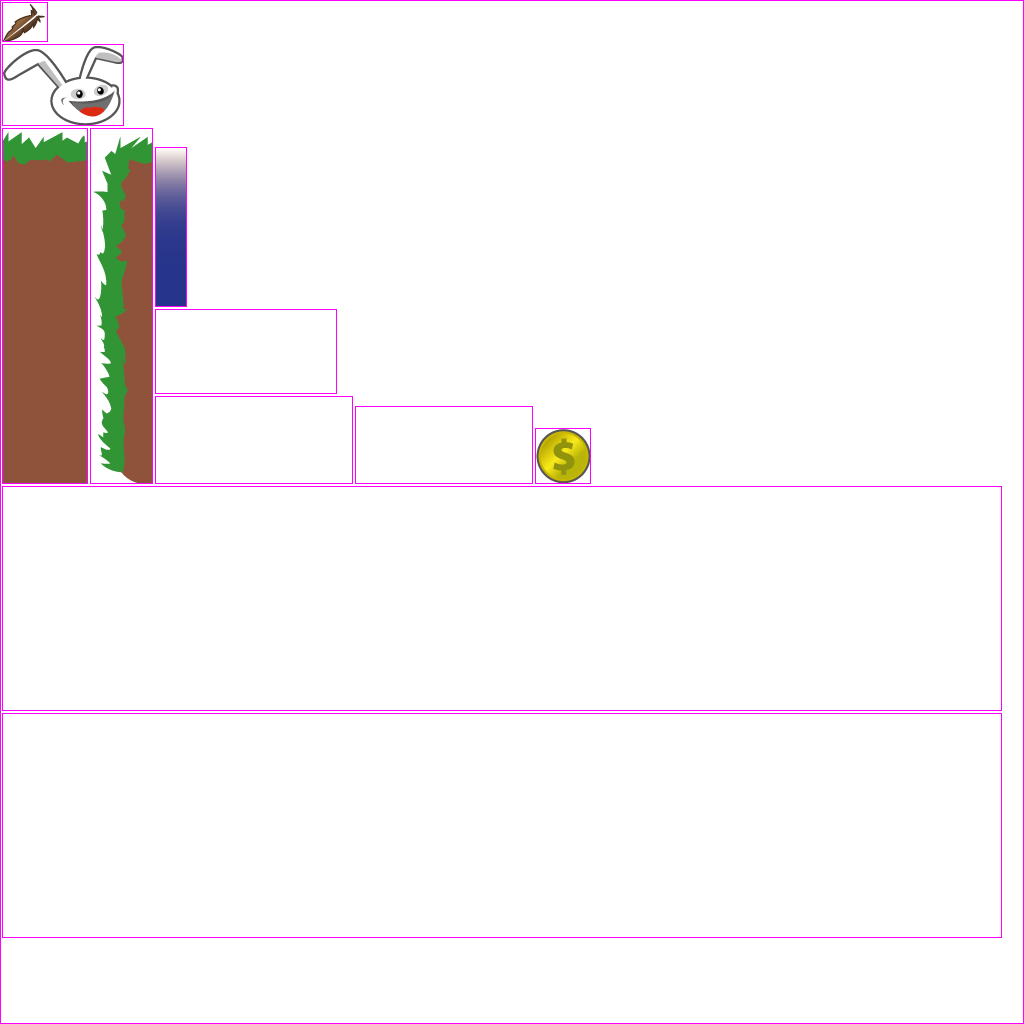
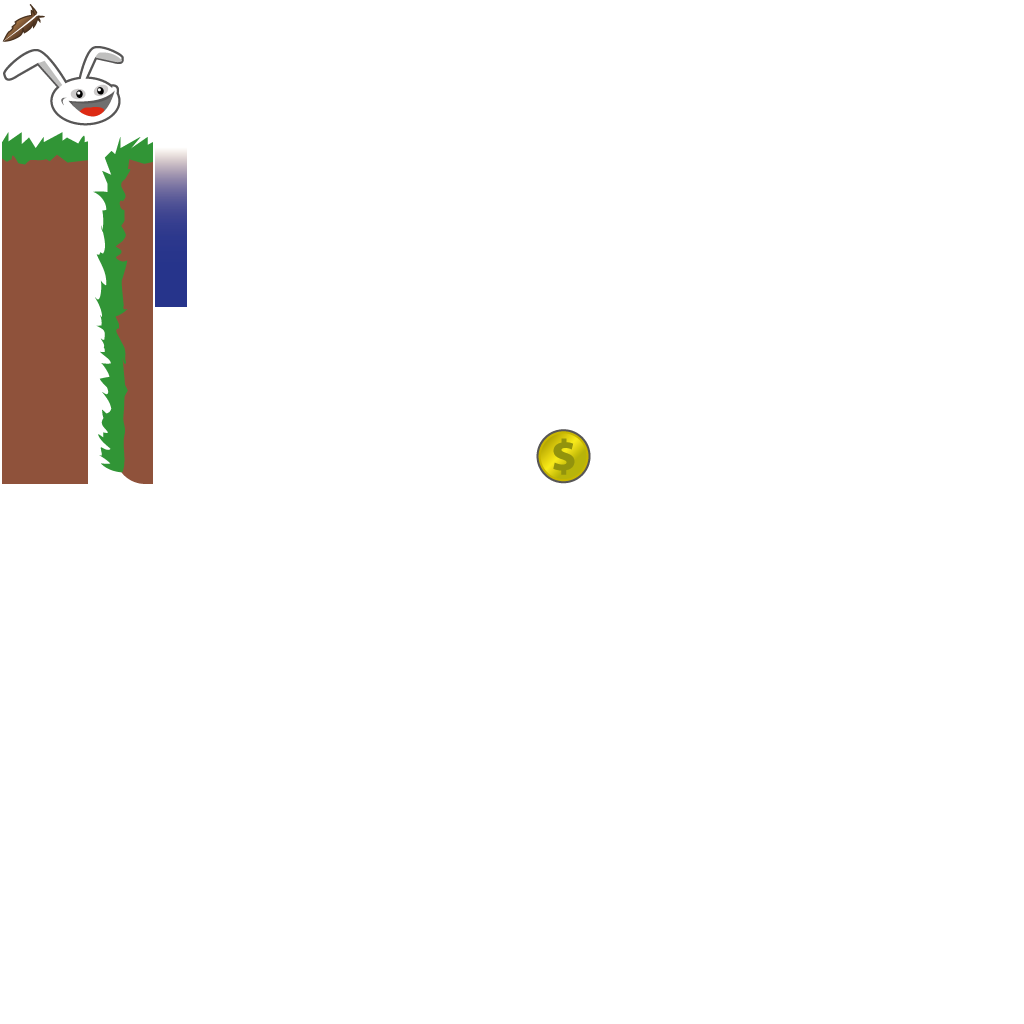
284 world renderer code. fixed fps font. disabled outlines

Changed region(s): [[0.0, 0.0, 0.0312, 0.0625], [0.0, 0.6875, 0.0312, 0.7188], [0.0, 0.4688, 0.0312, 0.5]]

diff --git a/core/src/com/packtpub/libgdx/canyonbunny/game/WorldRenderer.java b/core/src/com/packtpub/libgdx/canyonbunny/game/WorldRenderer.java
@@ -122,8 +122,7 @@ public class WorldRenderer implements Disposable
 				100, 100, 
 				0.35f, -0.35f, 
 				0);
-		Assets.instance.fonts.defaultBig.draw(batch, "", 
-				(int)worldController.scoreVisual, 
+		Assets.instance.fonts.defaultBig.draw(batch, "" + (int)worldController.scoreVisual, 
 				x + 75, y + 37);
 	}
 	
@@ -171,28 +170,22 @@ public class WorldRenderer implements Disposable
 	private void renderGuiFpsCounter (SpriteBatch batch)
 	{
 		float x = cameraGUI.viewportWidth - 55;
-		float y = cameraGUI.viewportHeight -15;
+		float y = cameraGUI.viewportHeight - 15;
 		int fps = Gdx.graphics.getFramesPerSecond();
 		BitmapFont fpsFont = Assets.instance.fonts.defaultNormal;
 		if(fps >= 45)
 		{
-			//45 or more fps show in green
+			//45 or more fps show green
 			fpsFont.setColor(0,1,0,1);
-		}
-		if(fps >= 30)
-		{
-			//30 or more fps show in yello
+		}else if (fps >= 30) {
+			//30 or more FPS show up in yellow
+			fpsFont.setColor(1,1,0,1);
+		}else {
+			//lesss than 30 fps show up in red
 			fpsFont.setColor(1,0,0,1);
 		}
-		if(fps <30)
-		{
-			//less than 30 shows in red
-			fpsFont.setColor(1,0,0,1);
-		}
-		
 		fpsFont.draw(batch, "FPS: " + fps, x, y);
-		fpsFont.setColor(1,1,1,1);
-		
+		fpsFont.setColor(1,1,1,1); //white
 	}
 	
 	/**

diff --git a/core/src/com/packtpub/libgdx/canyonbunny/game/WorldController.java b/core/src/com/packtpub/libgdx/canyonbunny/game/WorldController.java
@@ -48,7 +48,9 @@ public class WorldController extends InputAdapter
 	public Level level;
 	public int lives;
 	public int score;
+	//used for animations with score and lives on GUI
 	public float livesVisual;
+	public float scoreVisual;
 	
 	/**
 	 * constructs game instance and stores game variable
@@ -72,6 +74,7 @@ public class WorldController extends InputAdapter
 	private void initLevel ()
 	{
 		score = 0;
+		scoreVisual = score;
 		level = new Level(Constants.LEVEL_01);
 		cameraHelper.setTarget(level.bunnyHead);
 	}
@@ -133,6 +136,11 @@ public class WorldController extends InputAdapter
 		if(livesVisual > lives)
 		{
 			livesVisual = Math.max(lives,  livesVisual - 1 * deltaTime);
+		}
+		//slowly increments scoreVisual to play animation until it equals score
+		if(scoreVisual < score)
+		{
+			scoreVisual = Math.min(score, scoreVisual + 250 * deltaTime);		
 		}
 	}
 	
